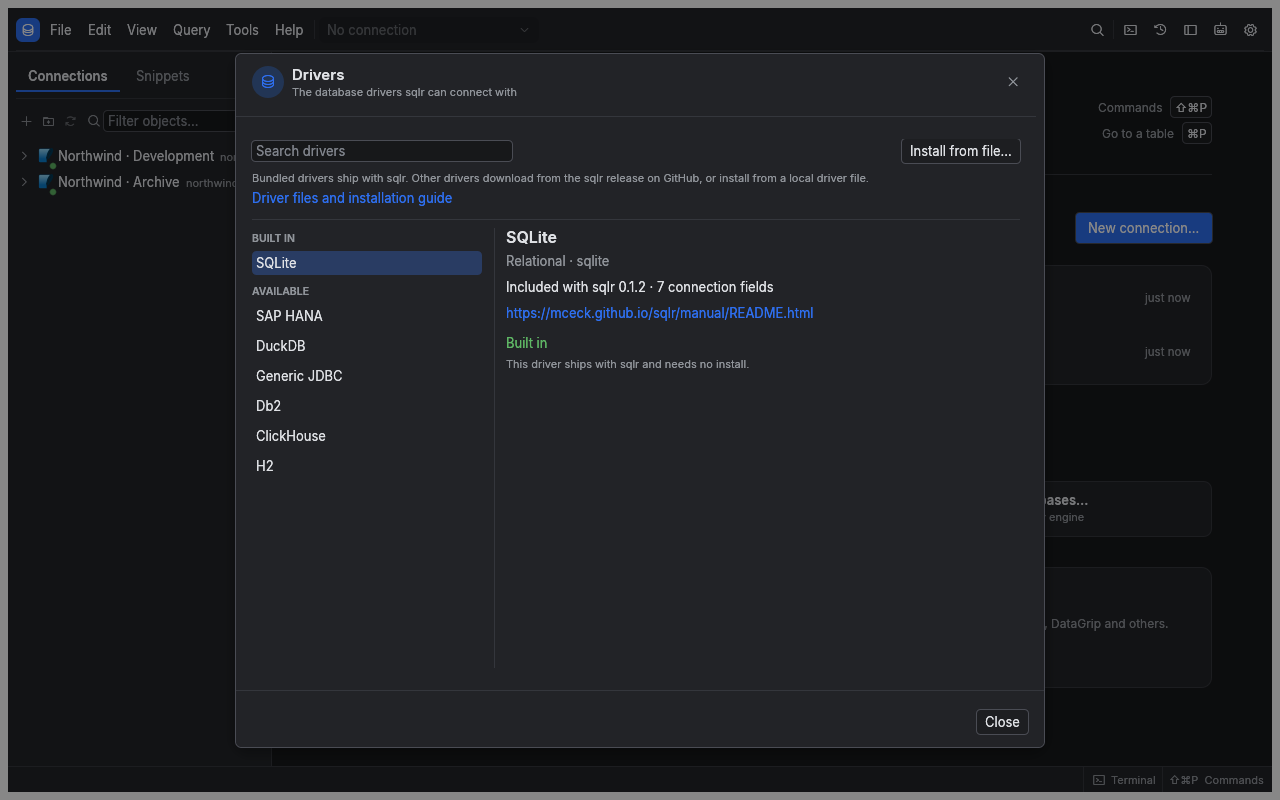
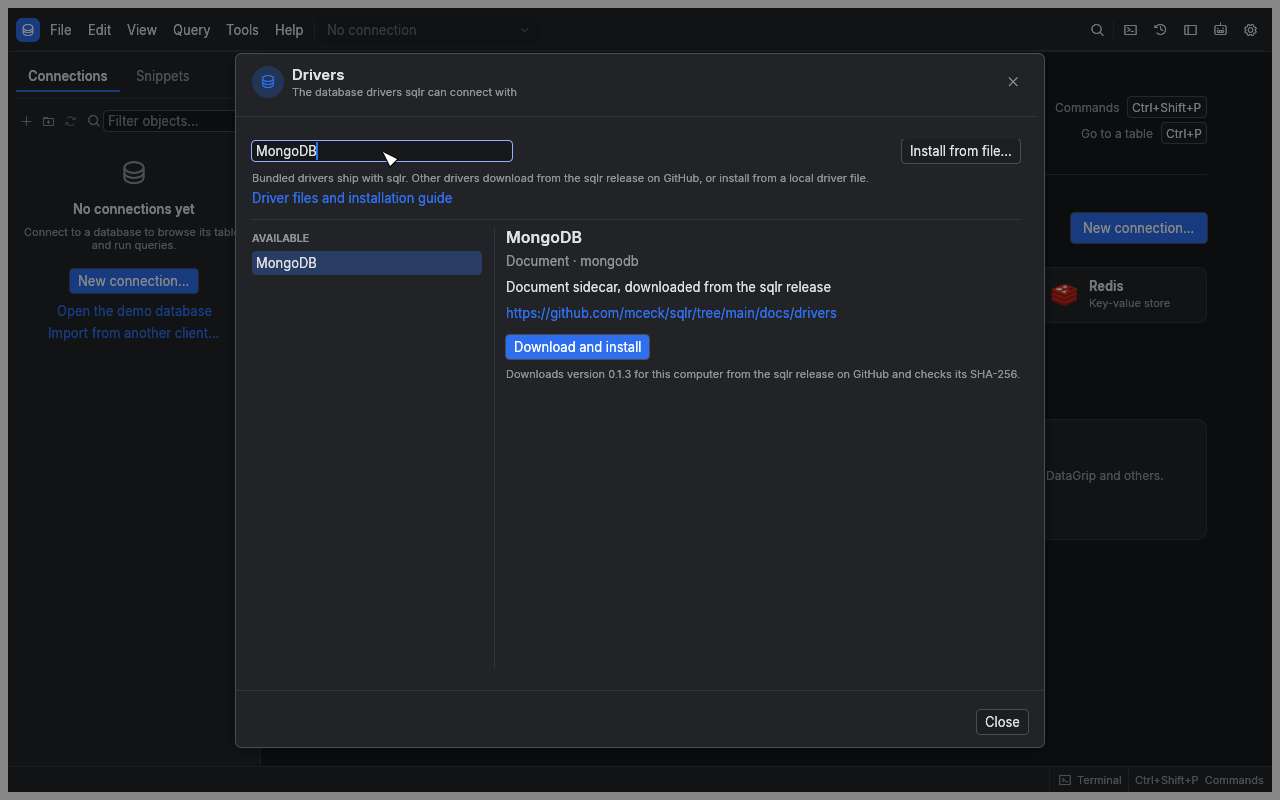
docs: explain MongoDB sidecar installation in the manual

diff --git a/docs/manual/drivers.html b/docs/manual/drivers.html
@@ -53,13 +53,13 @@ img{max-width:100%}
 <h1 id="add-and-manage-database-drivers">Add and manage database drivers</h1>
 <p>A driver connects sqlr to a database. Bundled drivers are ready to use; sidecar drivers are installed separately and run as programs on your computer.</p>
 <h2 id="check-what-you-need">Check what you need</h2>
-<table><thead><tr><th>Database</th><th>Driver setup</th></tr></thead><tbody><tr><td>PostgreSQL, MySQL, MariaDB, SQL Server, Oracle, SQLite</td><td>Included with sqlr</td></tr><tr><td>Snowflake, MongoDB, Elasticsearch, Redis</td><td>Included with sqlr</td></tr><tr><td>DuckDB, SAP HANA</td><td>Install their native sidecar driver</td></tr><tr><td>Db2, ClickHouse, H2 or another JDBC database</td><td>Install a JDBC bridge and Java 17 or newer; supply the database&#x27;s JDBC jar</td></tr></tbody></table>
+<table><thead><tr><th>Database</th><th>Driver setup</th></tr></thead><tbody><tr><td>PostgreSQL, MySQL, MariaDB, SQL Server, Oracle, SQLite</td><td>Included with sqlr</td></tr><tr><td>Snowflake, Elasticsearch, Redis</td><td>Included with sqlr</td></tr><tr><td>MongoDB, DuckDB, SAP HANA</td><td>Install their native sidecar driver</td></tr><tr><td>Db2, ClickHouse, H2 or another JDBC database</td><td>Install a JDBC bridge and Java 17 or newer; supply the database&#x27;s JDBC jar</td></tr></tbody></table>
 <p>SQL Server and Oracle use native bundled drivers, so you do not need Java or Oracle Instant Client for those connections. Database compatibility entries in <strong>New connection</strong> may use an existing PostgreSQL or MySQL driver with appropriate defaults.</p>
 <h2 id="download-a-driver">Download a driver</h2>
 <ol><li>Open Preferences, select <strong>Drivers</strong>, then open the <strong>Driver Manager</strong>. You can also find it in the command palette.</li><li>Find the driver under <strong>Available</strong>.</li><li>Choose <strong>Download and install</strong>.</li><li>Wait for installation to finish, then create the connection.</li></ol>
 <p>The download comes from the GitHub release matching your sqlr version and your computer&#x27;s platform. sqlr checks its SHA-256 before installing and starts it once to verify that it can answer. If the release has no archive for your platform, the error identifies the missing build.</p>
-<p>Picking a database whose driver is missing opens the manager for that driver. After installation, the connection form opens. A saved connection with a missing driver shows <strong>Install…</strong> in the explorer.</p>
-<p><img src="images/drivers/manager.png" alt="Driver Manager listing installed, built-in and available drivers"></p>
+<p>Picking a database whose driver is missing opens the manager for that driver. After installation, the connection form opens. A saved connection with a missing driver shows <strong>Install…</strong> in the explorer. Opening the manager starts no download; choose <strong>Download and install</strong> when you are ready.</p>
+<p><img src="images/drivers/manager.png" alt="Driver Manager showing MongoDB available for download"></p>
 <h2 id="install-an-archive-from-disk">Install an archive from disk</h2>
 <ol><li>Choose <strong>Install from file…</strong> in the Driver Manager.</li><li>Select the driver&#x27;s <code>.tar.gz</code> or <code>.tgz</code> archive.</li><li>Review the path, driver ID, version, size and SHA-256.</li><li>If you trust its origin, choose <strong>Install anyway</strong>.</li></ol>
 <blockquote><p><strong>Warning:</strong> A sidecar driver runs with your user account&#x27;s permissions and receives the credentials for its connections. The local-file review displays its identity and checksum; it does not certify its author.</p></blockquote>
@@ -69,6 +69,9 @@ img{max-width:100%}
 <table><thead><tr><th>Action</th><th>What happens</th></tr></thead><tbody><tr><td><strong>Update to …</strong></td><td>Downloads a newer version available for the running app&#x27;s release</td></tr><tr><td><strong>Activate …</strong></td><td>Switches to an already installed version, including an older one</td></tr><tr><td><strong>Remove …</strong></td><td>Removes that version; another remaining version becomes active if needed</td></tr><tr><td><strong>Remove driver</strong></td><td>Removes every installed version after confirmation</td></tr><tr><td><strong>Restart driver</strong></td><td>Stops the sidecar so the next connection starts a fresh process</td></tr></tbody></table>
 <p>Changing the active version stops the previous process. Reconnect affected connections to use the selected version. Removing the last version makes its saved connections unavailable until you install the driver again. Bundled drivers cannot be removed or replaced through this window.</p>
 <p>A sidecar starts when first needed and stops after its idle timeout, five minutes by default. Change that timeout under <strong>Drivers</strong> in Preferences. A crash affects that driver&#x27;s connections; reconnect to start a fresh process.</p>
+<h2 id="connect-to-mongodb">Connect to MongoDB</h2>
+<ol><li>Select <strong>MongoDB</strong> under <strong>Available</strong> in the Driver Manager, then choose <strong>Download and install</strong>.</li><li>Create a MongoDB connection with the host, port, database and credentials, and choose the TLS settings your server requires.</li><li>Open the connection and <a href="nosql.html#query-mongodb">query or edit documents</a>.</li></ol>
+<p>If you already have saved MongoDB connections, their settings and saved credentials stay in place. <strong>Driver MongoDB is not installed</strong> means this computer needs the separate driver. Choose <strong>Install…</strong>, install <strong>mongodb</strong>, then connect again. Collection browsing, paging, document editing, indexes, Data transfer and agent queries use the installed driver.</p>
 <h2 id="connect-to-duckdb-or-sap-hana">Connect to DuckDB or SAP HANA</h2>
 <p>DuckDB&#x27;s native sidecar includes the database engine. After installing it, enter a database file path or <code>:memory:</code> for a temporary database. Choose read-only mode when you want to inspect an existing file without writing it. Java is unnecessary.</p>
 <p>For SAP HANA, install the native HANA driver, then fill in its host, port, database and credentials. Use the driver&#x27;s TLS fields when your server requires an encrypted connection.</p>

diff --git a/docs/manual/troubleshooting.html b/docs/manual/troubleshooting.html
@@ -53,7 +53,7 @@ img{max-width:100%}
 <h1 id="diagnose-problems-and-share-a-report">Diagnose problems and share a report</h1>
 <p>Start with the error shown beside your query or connection. Use Diagnostics for unexpected failures, local logs and a report you can review before sharing.</p>
 <h2 id="recover-from-common-problems">Recover from common problems</h2>
-<table><thead><tr><th>Problem</th><th>Cause to check</th><th>What to do</th></tr></thead><tbody><tr><td>Connection fails or times out</td><td>Address, credentials, SSH, TLS or server availability</td><td>Edit the connection and use <strong>Test</strong>. Check the server and tunnel settings, then use <strong>Retry</strong></td></tr><tr><td>Connection drops during work</td><td>Network interruption or server closed the session</td><td>Use <strong>Reconnect</strong> in the tab banner. Review transaction state before repeating a write</td></tr><tr><td>Query fails with a position or hint</td><td>SQL syntax, permissions or database context</td><td>Read the error and hint, correct the statement, then rerun it. Use <strong>Copy details</strong> to preserve the error</td></tr><tr><td>Results cannot be edited</td><td>No usable row key, unsupported result shape or driver capability</td><td>Open a base table with a primary key or non-null unique key; see <a href="results-and-editing.html">result editing</a></td></tr><tr><td>Fetching stops before all rows arrive</td><td>Row cap or memory budget reached</td><td>Close unused results or adjust the <strong>Result grid</strong> limits; loaded rows remain available</td></tr><tr><td>Edits conflict with another user&#x27;s changes</td><td>The original row changed after you loaded it</td><td>Review the reported conflict, refresh the data and reapply the intended change</td></tr><tr><td>Dropping a database fails because it is in use</td><td>Other sessions are connected to it</td><td>Use the <strong>Database in use</strong> dialog to terminate the blocking sessions, then <strong>Retry drop</strong></td></tr><tr><td>A feature or action is absent</td><td>The driver does not declare that capability</td><td>Check <a href="drivers.html">driver support</a> and the relevant database&#x27;s limitations</td></tr><tr><td>Saved credentials cannot be read</td><td>Locked keychain, denied access or damaged vault</td><td>Unlock or authorize the OS keychain and retry. Keep the existing vault; moving it alone does not transfer its key</td></tr><tr><td>MCP client cannot connect</td><td>Server disabled, occupied port or stale token</td><td>Follow the <a href="agents.html#fix-a-connection-problem">MCP troubleshooting table</a></td></tr><tr><td>Preferences cannot save</td><td>Configuration folder is unwritable</td><td>Check folder permissions or select a writable configuration directory at startup</td></tr></tbody></table>
+<table><thead><tr><th>Problem</th><th>Cause to check</th><th>What to do</th></tr></thead><tbody><tr><td><strong>Driver MongoDB is not installed</strong></td><td>MongoDB needs its separate sidecar driver on this computer</td><td>Choose <strong>Install…</strong>, then <strong>Download and install</strong> in the Driver Manager. Reconnect after installation; keep your saved connection</td></tr><tr><td>Connection fails or times out</td><td>Address, credentials, SSH, TLS or server availability</td><td>Edit the connection and use <strong>Test</strong>. Check the server and tunnel settings, then use <strong>Retry</strong></td></tr><tr><td>Connection drops during work</td><td>Network interruption or server closed the session</td><td>Use <strong>Reconnect</strong> in the tab banner. Review transaction state before repeating a write</td></tr><tr><td>Query fails with a position or hint</td><td>SQL syntax, permissions or database context</td><td>Read the error and hint, correct the statement, then rerun it. Use <strong>Copy details</strong> to preserve the error</td></tr><tr><td>Results cannot be edited</td><td>No usable row key, unsupported result shape or driver capability</td><td>Open a base table with a primary key or non-null unique key; see <a href="results-and-editing.html">result editing</a></td></tr><tr><td>Fetching stops before all rows arrive</td><td>Row cap or memory budget reached</td><td>Close unused results or adjust the <strong>Result grid</strong> limits; loaded rows remain available</td></tr><tr><td>Edits conflict with another user&#x27;s changes</td><td>The original row changed after you loaded it</td><td>Review the reported conflict, refresh the data and reapply the intended change</td></tr><tr><td>Dropping a database fails because it is in use</td><td>Other sessions are connected to it</td><td>Use the <strong>Database in use</strong> dialog to terminate the blocking sessions, then <strong>Retry drop</strong></td></tr><tr><td>A feature or action is absent</td><td>The driver does not declare that capability</td><td>Check <a href="drivers.html">driver support</a> and the relevant database&#x27;s limitations</td></tr><tr><td>Saved credentials cannot be read</td><td>Locked keychain, denied access or damaged vault</td><td>Unlock or authorize the OS keychain and retry. Keep the existing vault; moving it alone does not transfer its key</td></tr><tr><td>MCP client cannot connect</td><td>Server disabled, occupied port or stale token</td><td>Follow the <a href="agents.html#fix-a-connection-problem">MCP troubleshooting table</a></td></tr><tr><td>Preferences cannot save</td><td>Configuration folder is unwritable</td><td>Check folder permissions or select a writable configuration directory at startup</td></tr></tbody></table>
 <p>A syntax error, authentication error, permission denial, timeout or cancellation does not normally create an incident. It is still shown where the operation failed.</p>
 <h2 id="copy-a-query-error">Copy a query error</h2>
 <p>Choose <strong>Copy details</strong> in the result error panel. The copied text includes the message, hint, connection, database, duration and source position when available. It includes the failed statement only when SQL diagnostics are enabled. This action does not create an incident.</p>

diff --git a/docs/manual/connections.html b/docs/manual/connections.html
@@ -53,7 +53,7 @@ img{max-width:100%}
 <h1 id="connect-to-a-database">Connect to a database</h1>
 <p>A saved connection records where your database is and how to reach it. Opening it creates live sessions for browsing and running queries. Your database account determines which objects and operations you can use.</p>
 <h2 id="choose-a-database">Choose a database</h2>
-<table><thead><tr><th>Available with the app</th><th>Install a sidecar driver first</th></tr></thead><tbody><tr><td>PostgreSQL, MySQL/MariaDB, SQLite, SQL Server, Oracle, Snowflake</td><td>DuckDB, SAP HANA</td></tr><tr><td>MongoDB, Elasticsearch, Redis</td><td>JDBC databases through the JDBC bridge, requiring Java 17+</td></tr></tbody></table>
+<table><thead><tr><th>Available with the app</th><th>Install a sidecar driver first</th></tr></thead><tbody><tr><td>PostgreSQL, MySQL/MariaDB, SQLite, SQL Server, Oracle, Snowflake</td><td>MongoDB, DuckDB, SAP HANA</td></tr><tr><td>Elasticsearch, Redis</td><td>JDBC databases through the JDBC bridge, requiring Java 17+</td></tr></tbody></table>
 <p>The database picker also includes compatible services with preset ports and options. An entry marked as planned does not provide a working connection. See <a href="drivers.html">Drivers</a> for installation and database-specific requirements.</p>
 <h2 id="save-and-test-a-connection">Save and test a connection</h2>
 <ol><li>Choose <strong>New connection</strong> from the explorer or command palette.</li><li>Select the database in <strong>Data sources</strong>.</li><li>Give the connection a <strong>Name</strong> you will recognise later.</li><li>Complete the driver&#x27;s fields. A server normally needs host, port, database and user; SQLite needs a file path.</li><li>Enter passwords or tokens in the masked secret fields.</li><li>Expand <strong>Advanced</strong> and choose a <strong>Profile</strong>. Use <a href="profiles-and-transactions.html">Profiles and transactions</a> to decide which write protections you need.</li><li>Enable <strong>Save password securely on this device</strong> if you want sqlr to retain credentials.</li><li>Choose <strong>Test connection</strong> to check access, server version and round-trip time.</li><li>Choose <strong>Save</strong>. Open the saved connection from the explorer when you want to work.</li></ol>

diff --git a/docs/manual/README.html b/docs/manual/README.html
@@ -50,7 +50,7 @@ img{max-width:100%}
 <aside><h4>Using sqlr</h4><a class="on" href="../manual/README.html">Start here</a><a class="" href="../manual/getting-started.html">Getting started</a><a class="" href="../manual/connections.html">Connections</a><a class="" href="../manual/migrating-connections.html">Import and export connections</a><a class="" href="../manual/explorer-and-objects.html">Explorer and object editors</a><a class="" href="../manual/sql-editor.html">The SQL editor</a><a class="" href="../manual/results-and-editing.html">Results and data editing</a><a class="" href="../manual/profiles-and-transactions.html">Profiles and transactions</a><a class="" href="../manual/moving-data.html">Import, export, transfer</a><a class="" href="../manual/schema-tools.html">Schema tools</a><a class="" href="../manual/administration.html">Administration</a><a class="" href="../manual/nosql.html">Document and key-value</a><a class="" href="../manual/drivers.html">Drivers</a><a class="" href="../manual/settings-and-shortcuts.html">Settings and shortcuts</a><a class="" href="../manual/agents.html">Agents and terminal</a><a class="" href="../manual/glossary.html">Glossary</a><a class="" href="../manual/troubleshooting.html">Troubleshooting</a><h4>Project</h4><a href="https://github.com/mceck/sqlr">Source on GitHub</a></aside>
 <main>
 <h1 id="sqlr-manual">sqlr manual</h1>
-<p><em>Last updated: 27 October 2026.</em></p>
+<p><em>Last updated: 29 October 2026.</em></p>
 <p>sqlr is a desktop database client for people who query databases, maintain their structure and move data between systems. You can use relational databases, MongoDB, Elasticsearch and Redis from the same window. Saved connections keep the details you need to return to your work; drivers determine which tools each database offers.</p>
 <p>This manual describes the application as shipped. Database permissions still apply to every action. An action that your driver does not support is hidden or disabled.</p>
 <h2 id="where-to-start">Where to start</h2>

diff --git a/docs/manual/nosql.html b/docs/manual/nosql.html
@@ -53,6 +53,7 @@ img{max-width:100%}
 <h1 id="work-with-documents-and-redis-keys">Work with documents and Redis keys</h1>
 <p>MongoDB and Elasticsearch use document results. Redis uses a key browser and command console. Your connection&#x27;s read-only policy and confirmation settings also apply to these databases.</p>
 <h2 id="query-mongodb">Query MongoDB</h2>
+<p>Install the MongoDB driver from the <a href="drivers.html#connect-to-mongodb">Driver Manager</a> before connecting. Saved MongoDB connections keep their existing fields, TLS settings and credentials.</p>
 <p>Open an editor on a MongoDB connection. Write Mongo shell syntax, then run the current statement with ⌘↵ or the script with ⌘⇧↵.</p>
 <p>sqlr parses a subset of shell syntax without running JavaScript. You can use collection reads such as <code>find</code>, <code>findOne</code>, <code>aggregate</code>, <code>countDocuments</code>, <code>estimatedDocumentCount</code> and <code>distinct</code>; writes such as <code>insertOne</code>, <code>insertMany</code>, <code>updateOne</code>, <code>updateMany</code>, <code>replaceOne</code>, <code>findOneAndUpdate</code>, <code>deleteOne</code> and <code>deleteMany</code>; and index operations such as <code>createIndex</code>, <code>dropIndex</code> and <code>getIndexes</code>.</p>
 <p>Use <code>show dbs</code>, <code>show collections</code>, <code>use &lt;database&gt;</code> and <code>db.getCollectionNames()</code> to explore. Use <code>db.getCollection(&quot;name&quot;)</code> for names that do not fit dotted notation. <code>db.runCommand</code> sends a command document when the shell subset does not have a dedicated method.</p>

diff --git a/docs/manual/drivers.md b/docs/manual/drivers.md
@@ -9,8 +9,8 @@ A driver connects sqlr to a database. Bundled drivers are ready to use; sidecar 
 | Database | Driver setup |
 |---|---|
 | PostgreSQL, MySQL, MariaDB, SQL Server, Oracle, SQLite | Included with sqlr |
-| Snowflake, MongoDB, Elasticsearch, Redis | Included with sqlr |
-| DuckDB, SAP HANA | Install their native sidecar driver |
+| Snowflake, Elasticsearch, Redis | Included with sqlr |
+| MongoDB, DuckDB, SAP HANA | Install their native sidecar driver |
 | Db2, ClickHouse, H2 or another JDBC database | Install a JDBC bridge and Java 17 or newer; supply the database's JDBC jar |
 
 SQL Server and Oracle use native bundled drivers, so you do not need Java or Oracle Instant Client for those connections. Database compatibility entries in **New connection** may use an existing PostgreSQL or MySQL driver with appropriate defaults.
@@ -24,9 +24,9 @@ SQL Server and Oracle use native bundled drivers, so you do not need Java or Ora
 
 The download comes from the GitHub release matching your sqlr version and your computer's platform. sqlr checks its SHA-256 before installing and starts it once to verify that it can answer. If the release has no archive for your platform, the error identifies the missing build.
 
-Picking a database whose driver is missing opens the manager for that driver. After installation, the connection form opens. A saved connection with a missing driver shows **Install…** in the explorer.
+Picking a database whose driver is missing opens the manager for that driver. After installation, the connection form opens. A saved connection with a missing driver shows **Install…** in the explorer. Opening the manager starts no download; choose **Download and install** when you are ready.
 
-![Driver Manager listing installed, built-in and available drivers](images/drivers/manager.png)
+![Driver Manager showing MongoDB available for download](images/drivers/manager.png)
 
 ## Install an archive from disk
 
@@ -54,6 +54,14 @@ The manager groups entries into **Installed**, **Built in** and **Available**. S
 Changing the active version stops the previous process. Reconnect affected connections to use the selected version. Removing the last version makes its saved connections unavailable until you install the driver again. Bundled drivers cannot be removed or replaced through this window.
 
 A sidecar starts when first needed and stops after its idle timeout, five minutes by default. Change that timeout under **Drivers** in Preferences. A crash affects that driver's connections; reconnect to start a fresh process.
+
+## Connect to MongoDB
+
+1. Select **MongoDB** under **Available** in the Driver Manager, then choose **Download and install**.
+2. Create a MongoDB connection with the host, port, database and credentials, and choose the TLS settings your server requires.
+3. Open the connection and [query or edit documents](nosql.md#query-mongodb).
+
+If you already have saved MongoDB connections, their settings and saved credentials stay in place. **Driver MongoDB is not installed** means this computer needs the separate driver. Choose **Install…**, install **mongodb**, then connect again. Collection browsing, paging, document editing, indexes, Data transfer and agent queries use the installed driver.
 
 ## Connect to DuckDB or SAP HANA
 

diff --git a/docs/manual/troubleshooting.md b/docs/manual/troubleshooting.md
@@ -8,6 +8,7 @@ Start with the error shown beside your query or connection. Use Diagnostics for 
 
 | Problem | Cause to check | What to do |
 |---|---|---|
+| **Driver MongoDB is not installed** | MongoDB needs its separate sidecar driver on this computer | Choose **Install…**, then **Download and install** in the Driver Manager. Reconnect after installation; keep your saved connection |
 | Connection fails or times out | Address, credentials, SSH, TLS or server availability | Edit the connection and use **Test**. Check the server and tunnel settings, then use **Retry** |
 | Connection drops during work | Network interruption or server closed the session | Use **Reconnect** in the tab banner. Review transaction state before repeating a write |
 | Query fails with a position or hint | SQL syntax, permissions or database context | Read the error and hint, correct the statement, then rerun it. Use **Copy details** to preserve the error |

diff --git a/docs/manual/nosql.md b/docs/manual/nosql.md
@@ -6,6 +6,8 @@ MongoDB and Elasticsearch use document results. Redis uses a key browser and com
 
 ## Query MongoDB
 
+Install the MongoDB driver from the [Driver Manager](drivers.md#connect-to-mongodb) before connecting. Saved MongoDB connections keep their existing fields, TLS settings and credentials.
+
 Open an editor on a MongoDB connection. Write Mongo shell syntax, then run the current statement with ⌘↵ or the script with ⌘⇧↵.
 
 sqlr parses a subset of shell syntax without running JavaScript. You can use collection reads such as `find`, `findOne`, `aggregate`, `countDocuments`, `estimatedDocumentCount` and `distinct`; writes such as `insertOne`, `insertMany`, `updateOne`, `updateMany`, `replaceOne`, `findOneAndUpdate`, `deleteOne` and `deleteMany`; and index operations such as `createIndex`, `dropIndex` and `getIndexes`.

diff --git a/docs/manual/connections.md b/docs/manual/connections.md
@@ -8,8 +8,8 @@ A saved connection records where your database is and how to reach it. Opening i
 
 | Available with the app | Install a sidecar driver first |
 | --- | --- |
-| PostgreSQL, MySQL/MariaDB, SQLite, SQL Server, Oracle, Snowflake | DuckDB, SAP HANA |
-| MongoDB, Elasticsearch, Redis | JDBC databases through the JDBC bridge, requiring Java 17+ |
+| PostgreSQL, MySQL/MariaDB, SQLite, SQL Server, Oracle, Snowflake | MongoDB, DuckDB, SAP HANA |
+| Elasticsearch, Redis | JDBC databases through the JDBC bridge, requiring Java 17+ |
 
 The database picker also includes compatible services with preset ports and options. An entry marked as planned does not provide a working connection. See [Drivers](drivers.md) for installation and database-specific requirements.
 

diff --git a/docs/manual/README.md b/docs/manual/README.md
@@ -1,6 +1,6 @@
 # sqlr manual
 
-*Last updated: 27 October 2026.*
+*Last updated: 29 October 2026.*
 
 sqlr is a desktop database client for people who query databases, maintain their structure and move data between systems. You can use relational databases, MongoDB, Elasticsearch and Redis from the same window. Saved connections keep the details you need to return to your work; drivers determine which tools each database offers.
 
